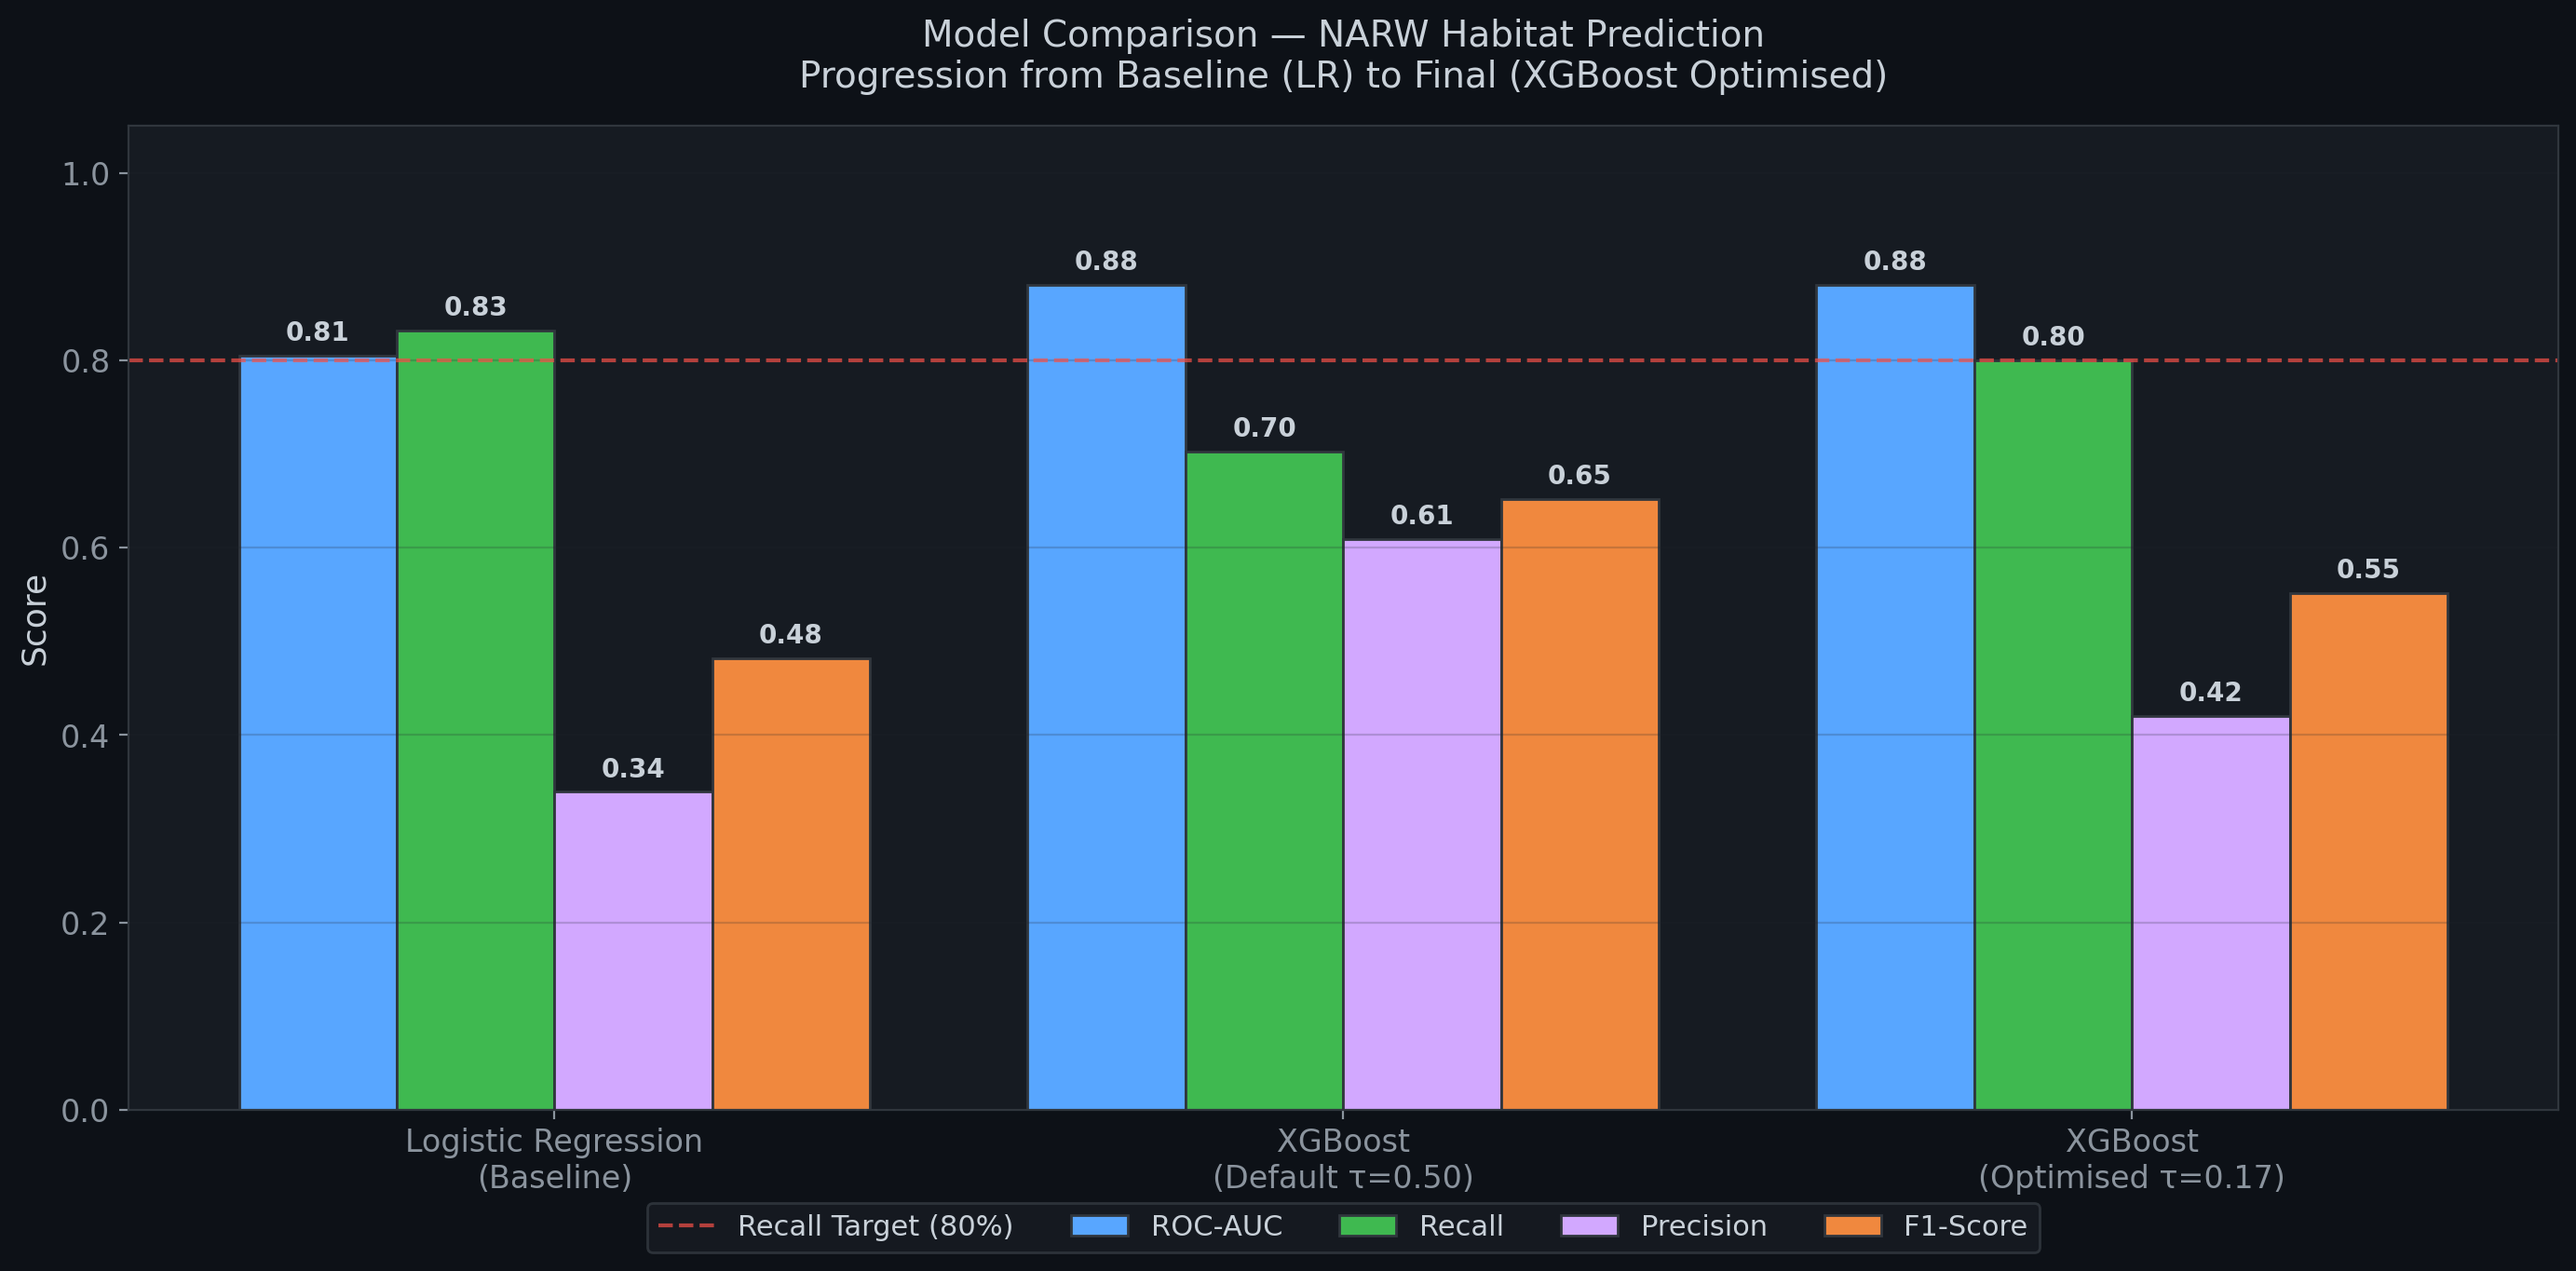
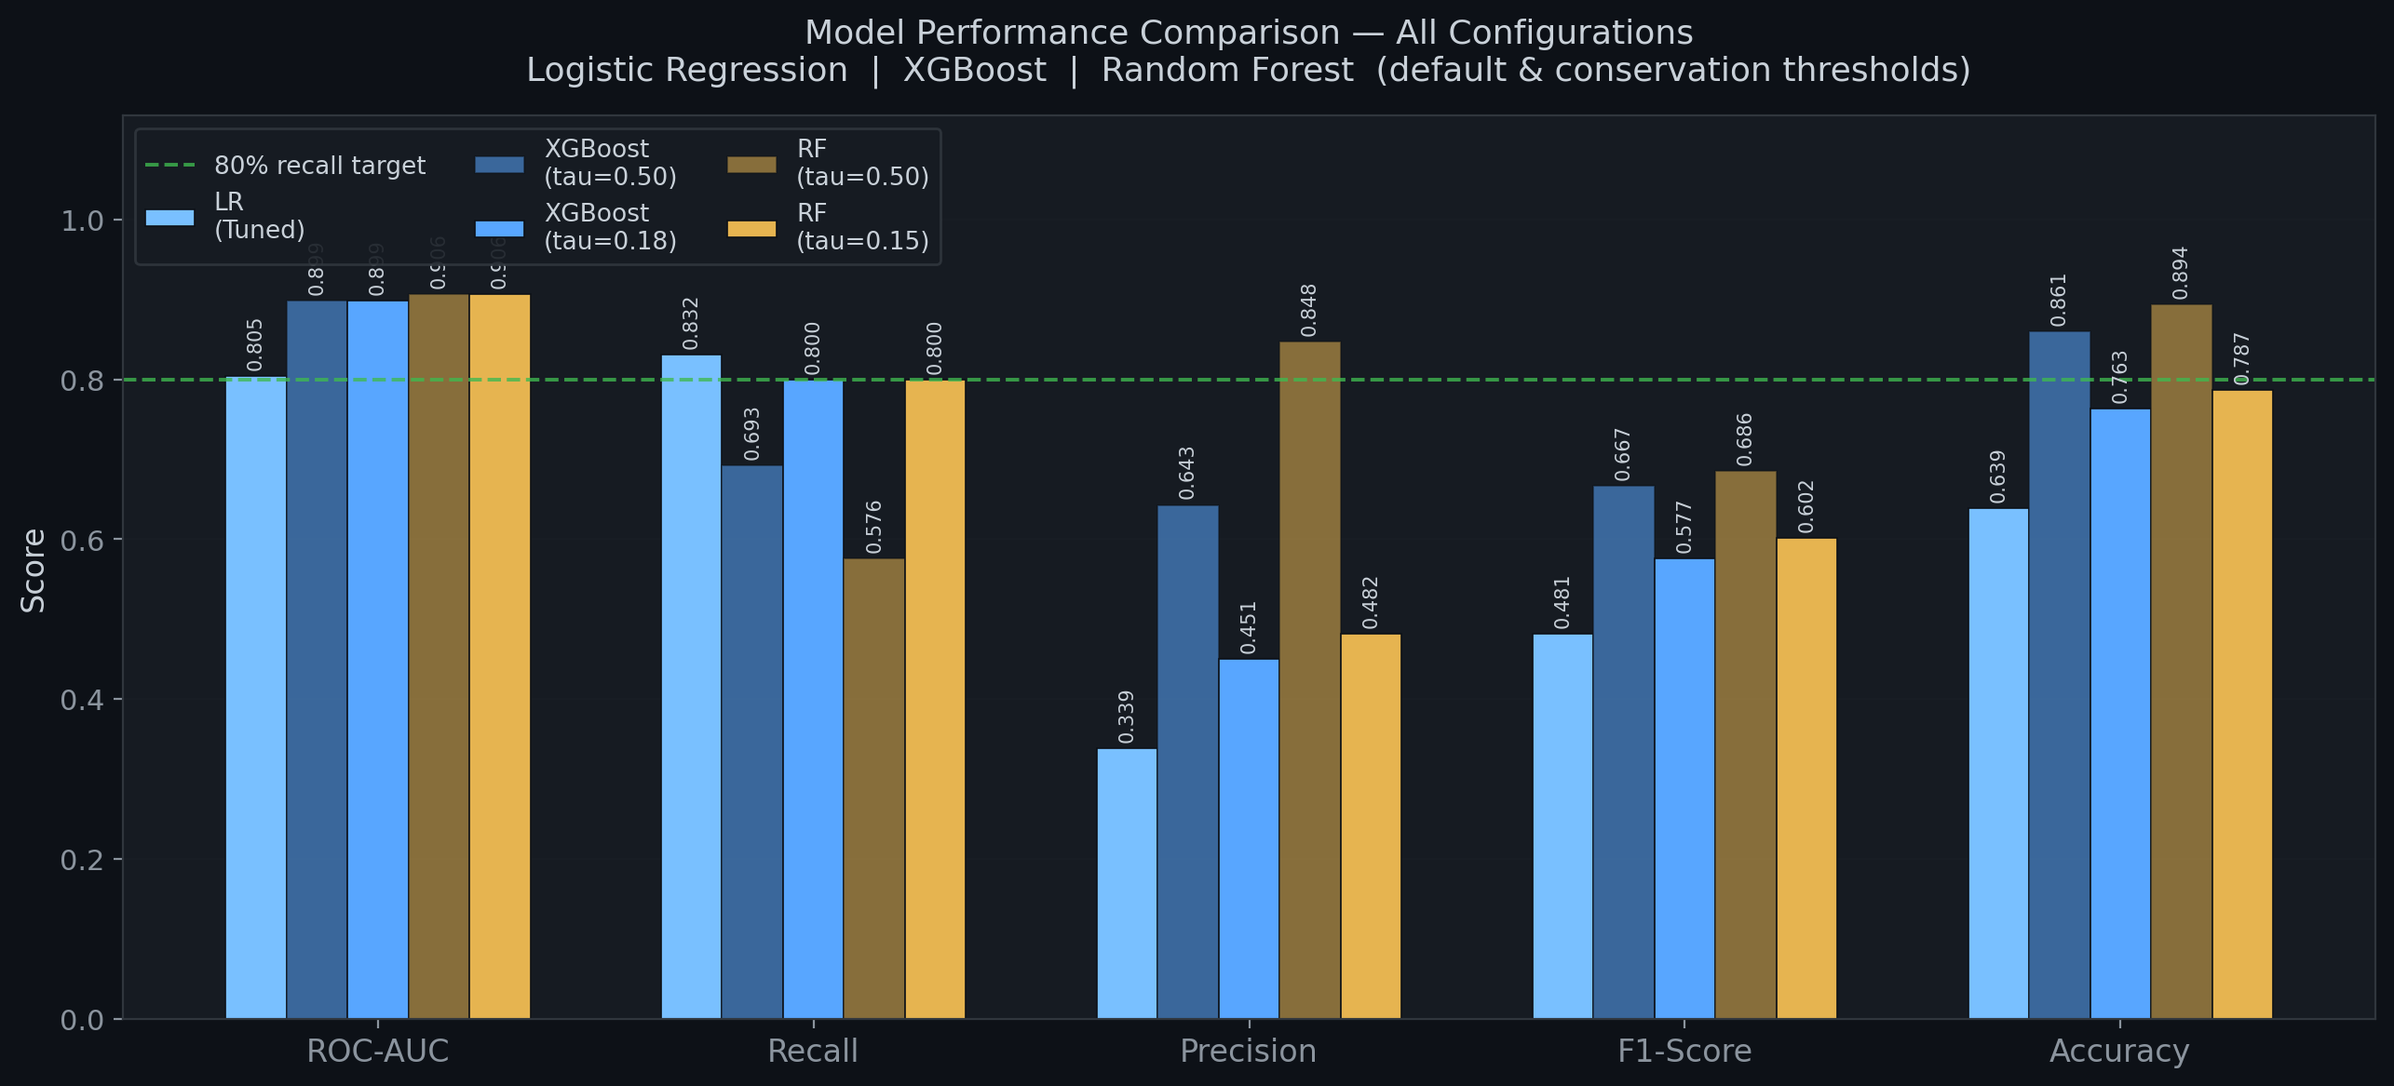
fixed ml walkthrough

diff --git a/ML_Walkthrough.md b/ML_Walkthrough.md
@@ -310,7 +310,7 @@ All hyperparameters were tuned using `BayesSearchCV` (40 iterations) with `TimeS
 
 ![ROC comparison — all three models on the same axes: Random Forest (AUC 0.9064) > XGBoost (0.8986) > Logistic Regression (0.8048). Operating points mark the conservation-optimised threshold for each model](images/roc_comparison.png)
 
-![Model comparison bar chart showing the progression from baseline to optimised model](images/model_comparison.png)
+![Model comparison bar chart — all five configurations across five metrics. Faded bars show default threshold (τ=0.50); solid bars show conservation-optimised threshold. The green dashed line marks the 80% recall conservation target](images/model_comparison.png)
 
 ### Key Observations
 
